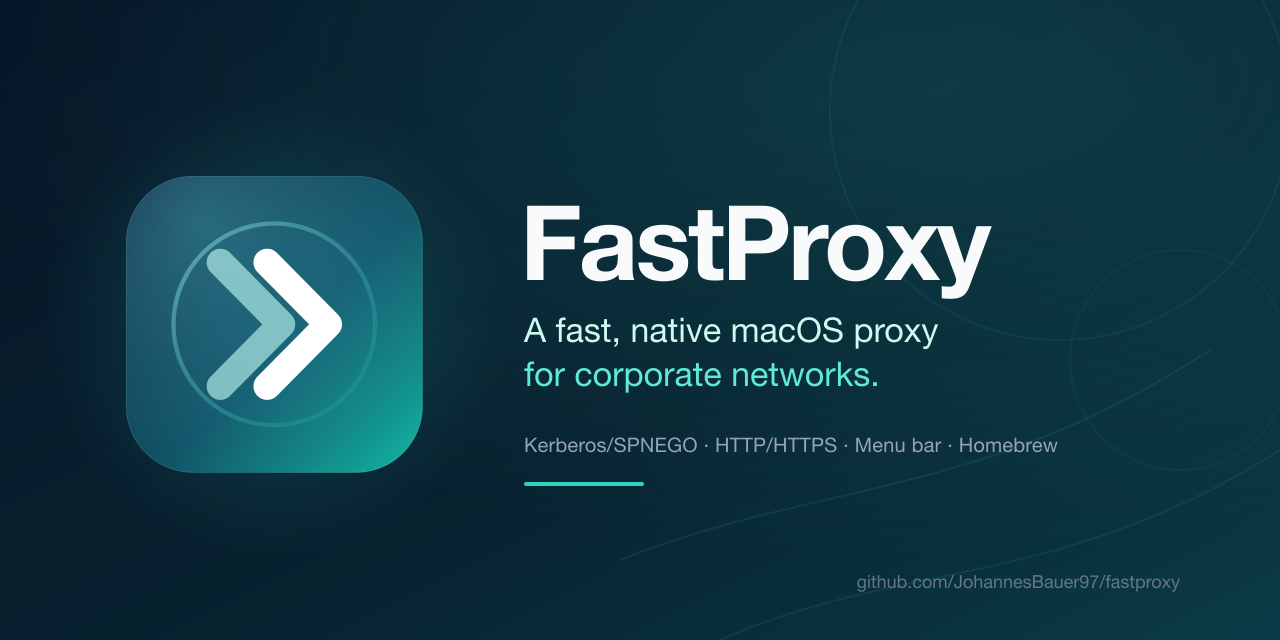
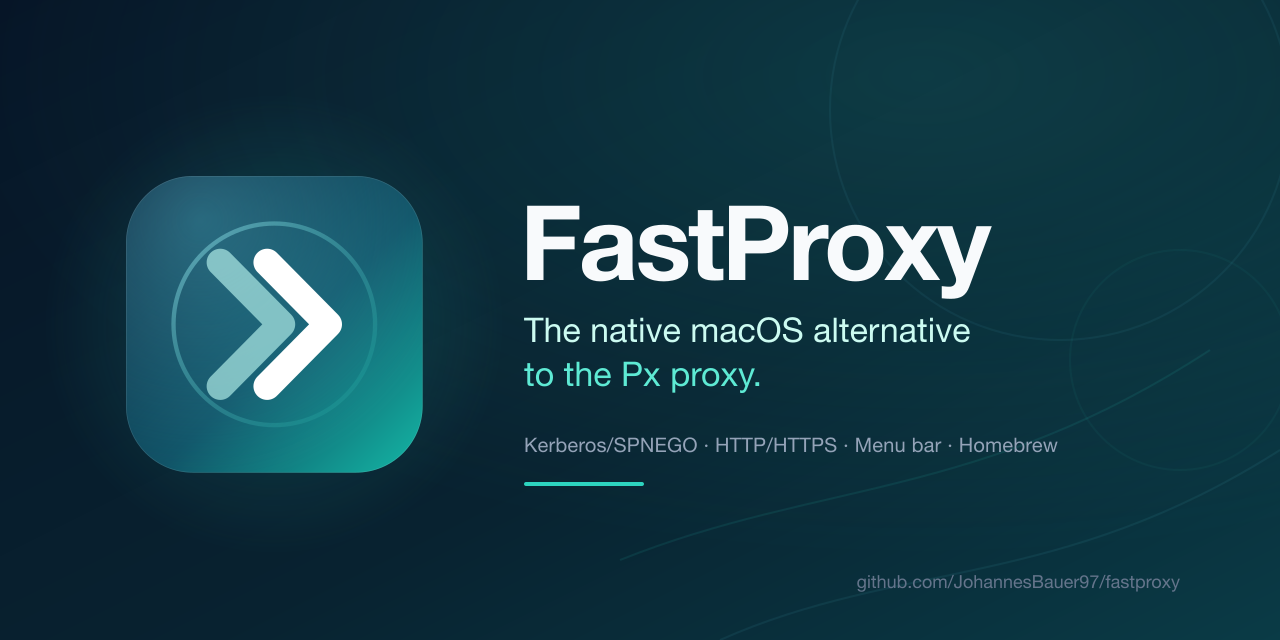
Remove .NET references and position as native Px alternative

Changed region(s): [[0.4062, 0.5, 0.7812, 0.625]]

diff --git a/Sources/FastProxyCore/ProxyConfiguration.swift b/Sources/FastProxyCore/ProxyConfiguration.swift
@@ -9,8 +9,8 @@ public enum ProxyLogLevel: String, Codable, CaseIterable, Sendable {
   case error
   case critical
 
-  public init(dotNetValue: String?) {
-    switch dotNetValue?.lowercased() {
+  public init(configuredValue: String?) {
+    switch configuredValue?.lowercased() {
     case "trace": self = .trace
     case "debug": self = .debug
     case "warning", "warn": self = .warning
@@ -21,8 +21,8 @@ public enum ProxyLogLevel: String, Codable, CaseIterable, Sendable {
   }
 }
 
-/// Mirrors the .NET `ProxyOptions` section so existing appsettings.json files
-/// can be reused unchanged.
+/// Mirrors the FastProxy `ProxyOptions` section so existing appsettings.json
+/// files can be reused unchanged.
 public struct ProxyConfiguration: Equatable, Sendable {
   public var listen: String
   public var port: Int
@@ -114,7 +114,7 @@ public struct ProxyConfiguration: Equatable, Sendable {
       noProxy: section.noProxy ?? [],
       bufferSize: section.bufferSize ?? 8192,
       connectionTimeout: section.connectionTimeout ?? 20,
-      logLevel: ProxyLogLevel(dotNetValue: file.logging?.logLevel?.defaultValue)
+      logLevel: ProxyLogLevel(configuredValue: file.logging?.logLevel?.defaultValue)
     )
   }
 

diff --git a/Sources/FastProxyCore/ConfigurationStore.swift b/Sources/FastProxyCore/ConfigurationStore.swift
@@ -32,7 +32,7 @@ public struct ConfigurationStore: Sendable {
     let isDefaultLocation = fileURL.standardizedFileURL == defaultFileURL.standardizedFileURL
 
     if isDefaultLocation, let legacy = (try? importLegacyConfiguration()) ?? nil {
-      // Import the .NET settings unchanged, including its 3128 default.
+      // Import the legacy settings unchanged, including the 3128 default.
       configuration = legacy
     }
     try save(configuration)

diff --git a/Sources/FastProxyCore/NoProxyMatcher.swift b/Sources/FastProxyCore/NoProxyMatcher.swift
@@ -1,6 +1,6 @@
 import Foundation
 
-/// Matches the .NET implementation's exact, suffix, wildcard, and CIDR rules.
+/// Implements exact, suffix, wildcard, and CIDR matching rules.
 public struct NoProxyMatcher: Sendable {
   private struct CIDRRange: Sendable {
     let network: [UInt8]

diff --git a/Tests/FastProxyCoreTests/ProxyConfigurationTests.swift b/Tests/FastProxyCoreTests/ProxyConfigurationTests.swift
@@ -2,7 +2,7 @@ import XCTest
 @testable import FastProxyCore
 
 final class ProxyConfigurationTests: XCTestCase {
-  func testDecodesDotNetAppSettingsShape() throws {
+  func testDecodesAppSettingsShape() throws {
     let json = """
     {
       "Proxy": {

diff --git a/README.md b/README.md
@@ -1,5 +1,5 @@
 <p align="center">
-  <img src="docs/assets/hero.png" alt="FastProxy — a fast, native macOS proxy for corporate networks" width="100%">
+  <img src="docs/assets/hero.png?v=2" alt="FastProxy — the native macOS alternative to the Px proxy" width="100%">
 </p>
 
 <p align="center">
@@ -12,7 +12,7 @@
 </p>
 
 <p align="center">
-  <strong>A fast, native macOS proxy for corporate networks.</strong><br>
+  <strong>The native macOS alternative to the Px proxy.</strong><br>
   HTTP/HTTPS forwarding, Kerberos/SPNEGO, upstream failover, and a proper menu bar app.
 </p>
 
@@ -46,8 +46,10 @@ proxy.
 
 ## Why FastProxy
 
+- **The native Px alternative.** FastProxy brings the Px proxy workflow to macOS
+  as a signed, notarized menu bar app.
 - **Native by design.** Swift, SwiftUI/AppKit, Network.framework, and the system
-  GSS.framework. No .NET runtime and no bundled third-party proxy engine.
+  GSS.framework. No separate runtime and no bundled third-party proxy engine.
 - **Kerberos-first.** Uses the ticket in your macOS login session. No passwords in
   configuration and no separate credential prompt.
 - **Built for real upstreams.** Primary and failover proxies, DIRECT fallback, and
@@ -290,9 +292,7 @@ opt-in:
 FASTPROXY_GSS_TEST_HOST=proxy.example.com swift test --filter GSSAuthenticatorTests
 ```
 
-Internal benchmark notes are in [docs/benchmark.md](docs/benchmark.md). The .NET
-proxy referenced there was an internal reference build, not a public product; the
-comparison is kept for development reference.
+Internal benchmark notes are in [docs/benchmark.md](docs/benchmark.md).
 
 <details>
 <summary>Repository layout</summary>
